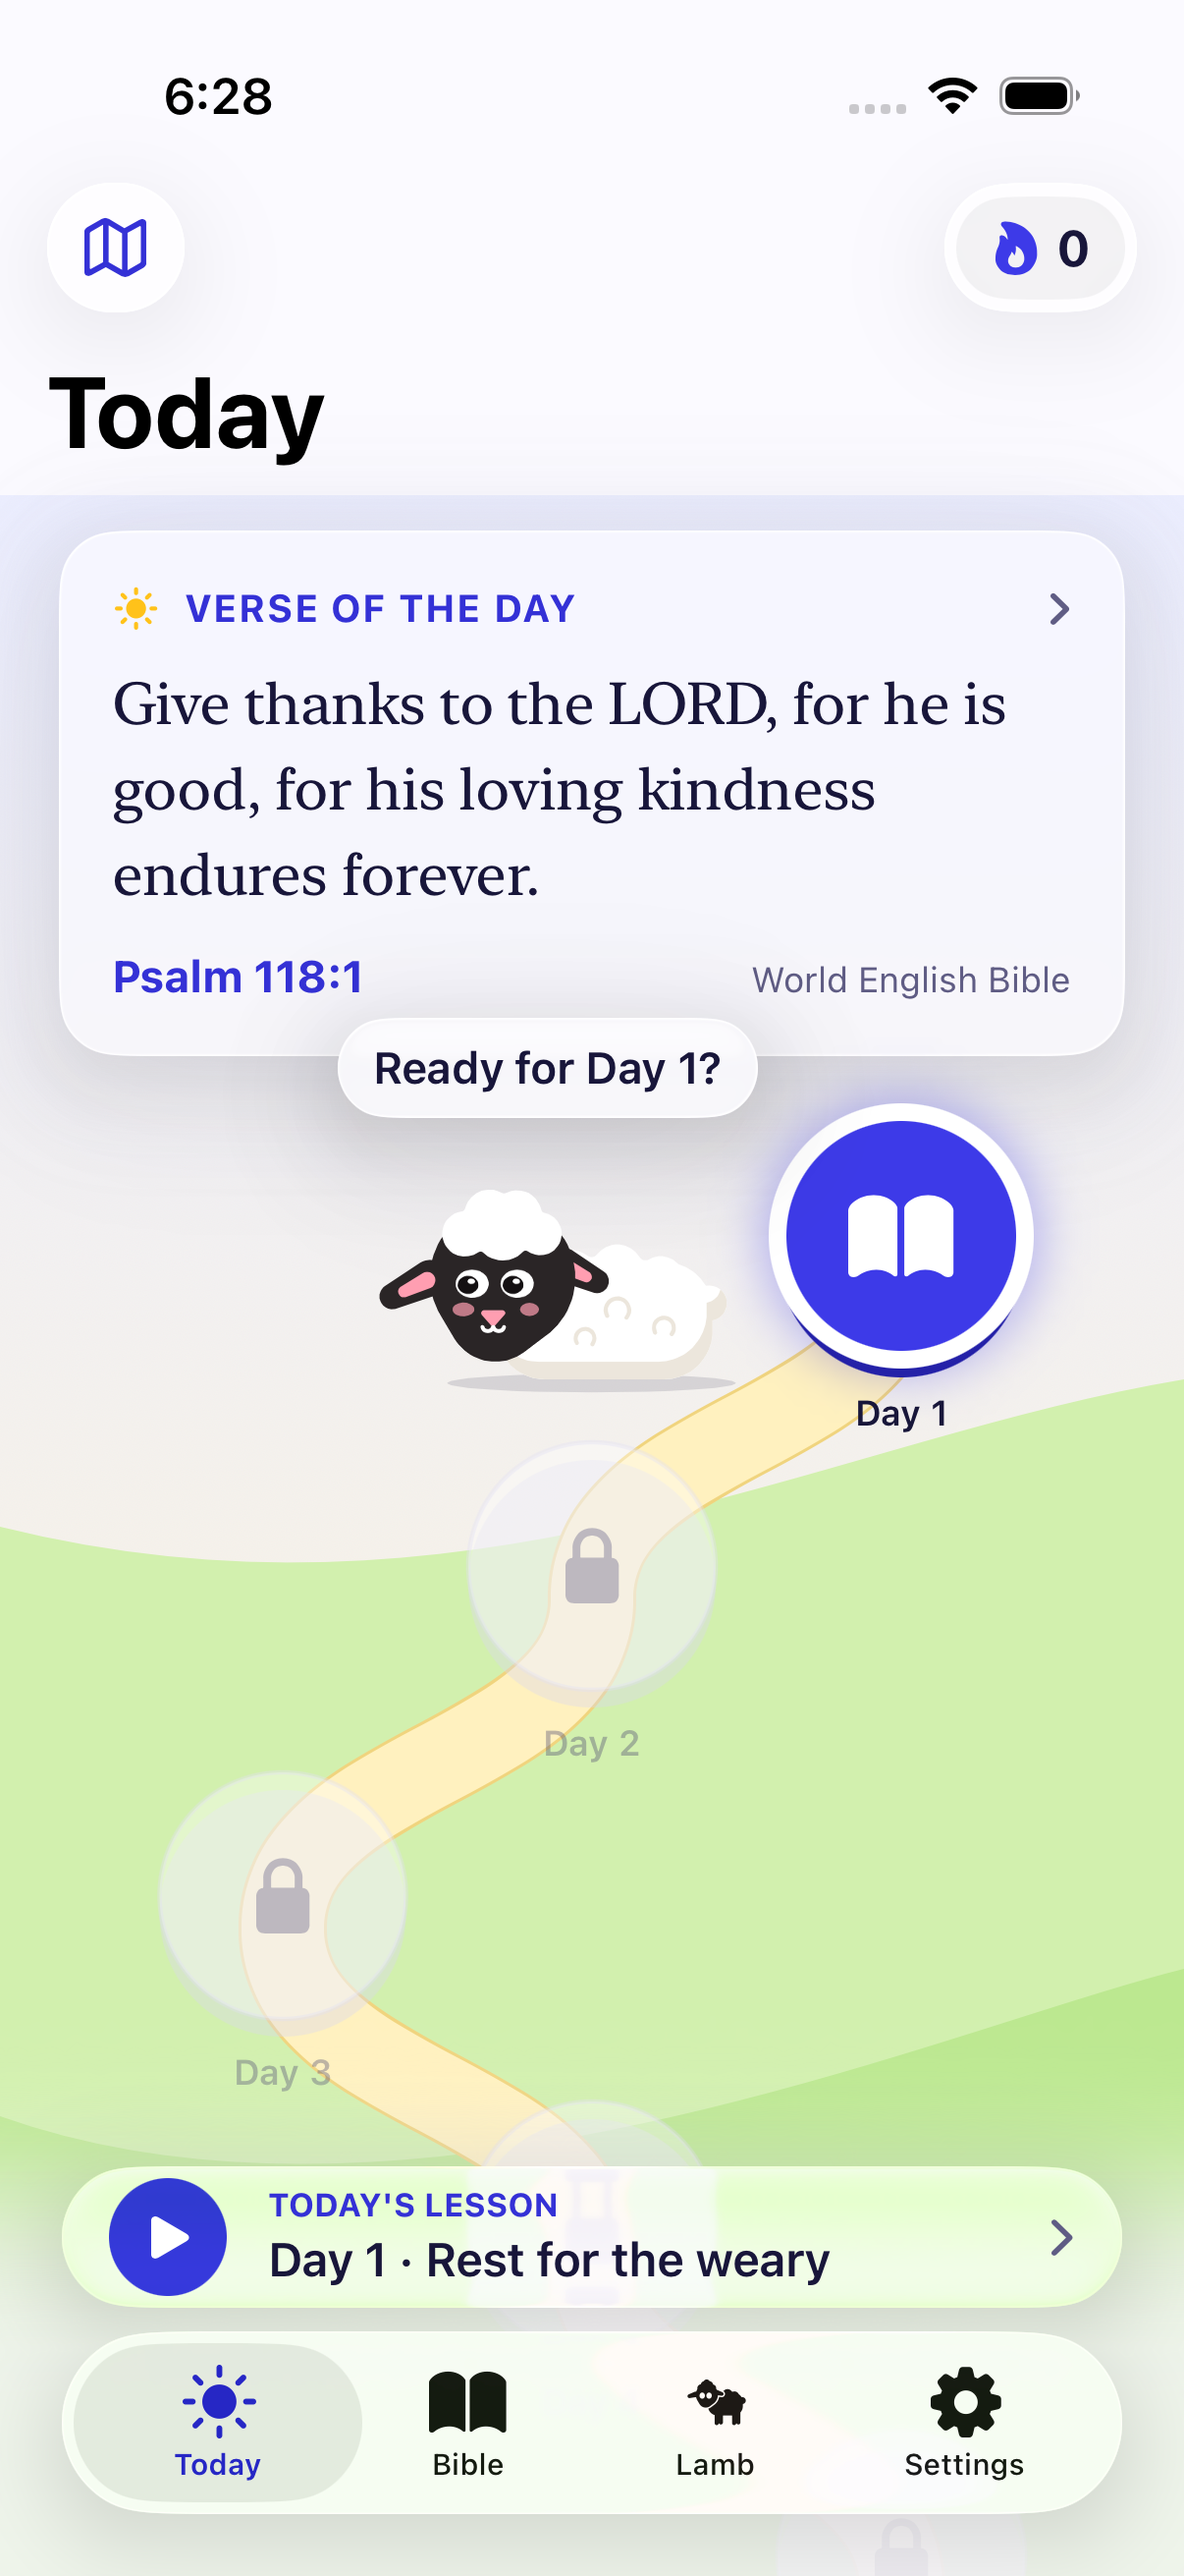
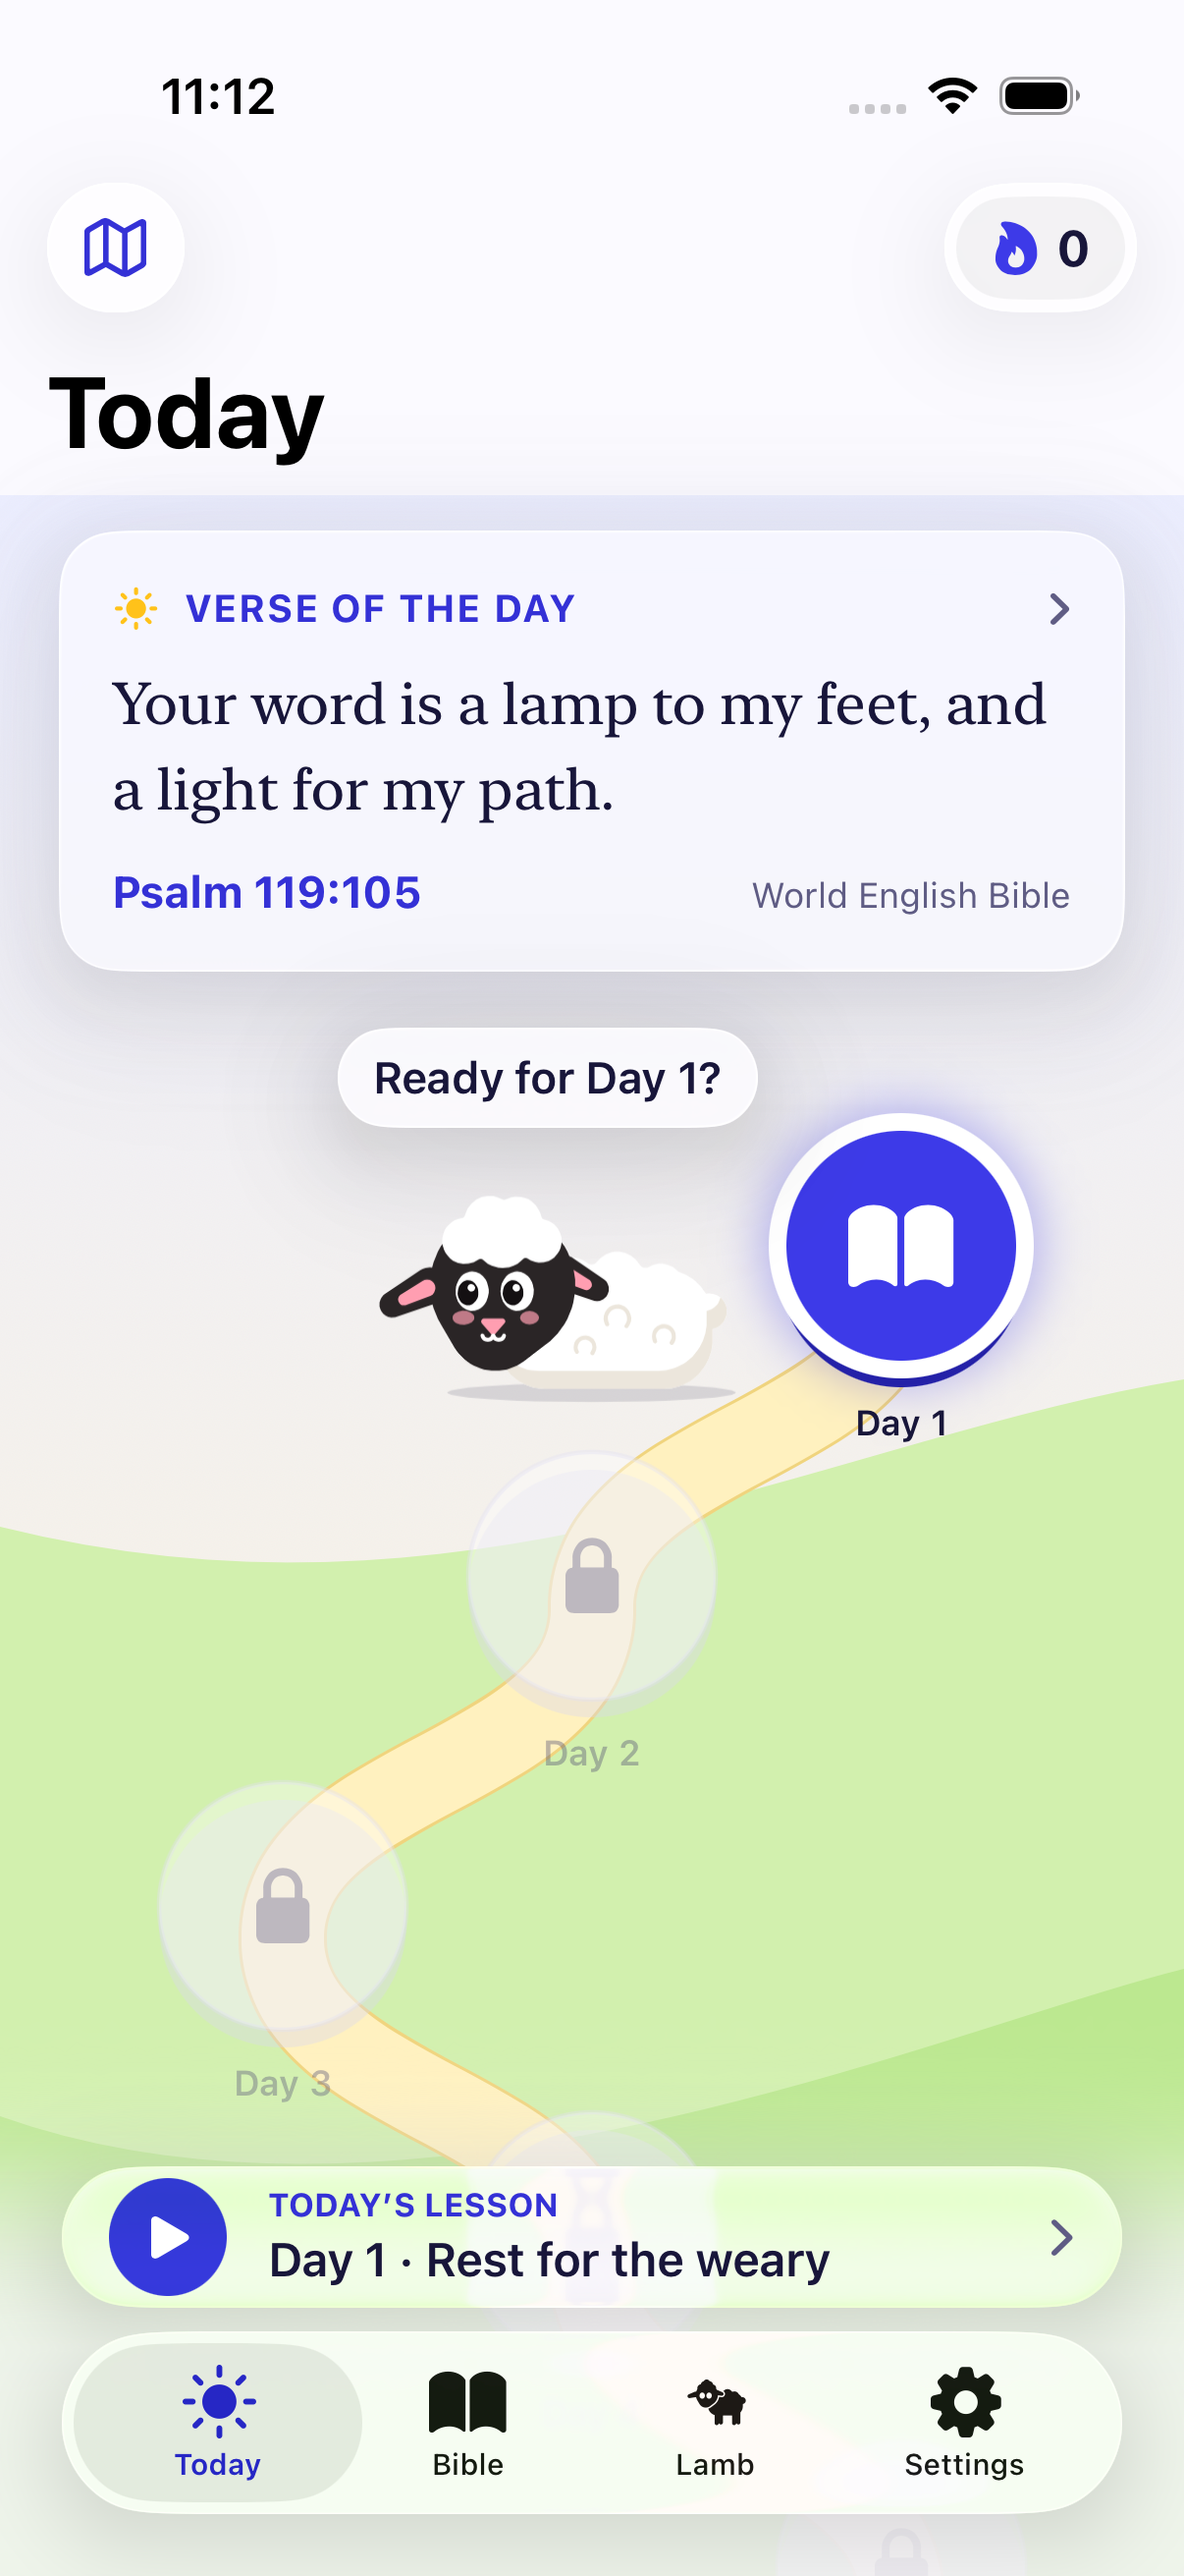
docs: re-capture verse of the day and Home screens, add real Home Screen widget captures
VerseOfTheDay_Reader now shows Psalm 119:105 scrolled to and highlighted; the Home shots
show the verse card; Widgets_HomeScreen_Before/After are SpringBoard captures from
testWidgetsOnHomeScreenUpdateAfterLesson. Widget_Verse_Fit_OffscreenRender is an
ImageRenderer render of the longest curated verse, not a device capture. AGENTS.md: the
widget profile, App Group entitlements via project.yml, and the widget test's fresh-device need.

diff --git a/AGENTS.md b/AGENTS.md
@@ -6,11 +6,11 @@ This file is the project's committed home for project-intrinsic agent knowledge:
 - Design lives in `design/`: `shepherd.lib.pen` (tokens + components), `screens/shepherd.pen` (imports it as alias `I`), PNG exports, and the spec in `design/README.md`. The README's token, component, frame and sample-content sections are generated: run `python3 design/tools/readme_tables.py` after changing a `.pen`.
 - Edit `.pen` files only through Pencil (app, MCP, or headless `pen interactive` with a safe-save that checks `list_libraries()` is ok). Never hand-edit the JSON; a broken library link or a renamed variable silently flattens token bindings.
 - Every top-level screen frame must set `theme: {"I:mode": "light"|"dark"}`, or library bindings render black.
-- Release (TestFlight): `tools/archive.sh <build-number>` archives, exports and runs `tools/verify_ipa.sh` (manual signing, "Shepherd AppStore Profile", team 6KH82C884Q); bump the build number each upload. Call asc only as `asc --profile LittleRed ...` (app 6819303372); never `asc auth switch`, never another team's profile.
+- Release (TestFlight): `tools/archive.sh <build-number>` archives, exports and runs `tools/verify_ipa.sh` (manual signing, team 6KH82C884Q; each target names its own profile in `project.yml` Release: "Shepherd AppStore Profile" for the app, "Shepherd Widgets AppStore Profile" for `com.dangvietquan.shepherd.widgets`); bump the build number each upload. App and widget share App Group `group.com.dangvietquan.shepherd`: set entitlements only through `project.yml` `entitlements.properties` (xcodegen rewrites the `.entitlements` files on every generate). Call asc only as `asc --profile LittleRed ...` (app 6819303372); never `asc auth switch`, never another team's profile.
 - Scripture, lesson and quiz text in designs must come verbatim from `Shepherd/Resources/Content/*.json` (WEB). Green/red are reserved for quiz correctness.
 - Bible text (`web.json`, WEB `engwebp`) is generated by `tools/bible/build_web.py` from a SHA-256-pinned eBible zip; never hand-edit it (the "World English Bible" name is only allowed for unchanged text, punctuation included). Lesson content (`paths.json`) must pass `python3 -I tools/content/validate_content.py` (`--release` also rejects `draft` paths) and `python3 -I -m unittest discover -s tools/content`; every quiz question needs an `answerRef` proof verse among the lesson's `verseRefs`. Lesson ids are global progress keys: never rename one. The app shows lesson text through `LessonText` (curly quotes at display time, the `**Reflection:**` paragraph as a heading), so keep straight quotes in the JSON. Write lessons to `docs/content/STYLE.md`; `python3 -I tools/content/content_summary.py --lessons` gives the review table.
 - `ShepherdTests/StoreKitTests` hangs in a fresh simulator clone (`[SKTestSession] Error saving configuration file: SKInternalErrorDomain Code=3`, then the test never returns); run the other suites with `-only-testing:` per class (`ContentTests`, `ShepherdTests`, `ReminderTests`, `ReviewPromptTests`, `StreakFreezeTests`) when it does. On iOS 26 StoreKit reports the `P1W` trial as 7 days, so check the period's length, not its unit.
-- UI tests: the shared scheme sets `SHOT_DIR` to `docs/screenshots`, so a run overwrites committed screenshots unless you pass `TEST_RUNNER_SHOT_DIR=<scratch dir>` to xcodebuild. DEBUG launch args `-uitestCompleted <path[:n]|lessonId,...>` and `-uitestPremium` seed progress and Premium (see `RootView.applyUITestState`). `testRealAppFullFlow*` needs a fresh install (`simctl uninstall` first): it skips the onboarding reminder step with "Not now" and taps the springboard "Allow" when it turns the daily reminder on in Settings.
+- UI tests: the shared scheme sets `SHOT_DIR` to `docs/screenshots`, so a run overwrites committed screenshots unless you pass `TEST_RUNNER_SHOT_DIR=<scratch dir>` to xcodebuild. DEBUG launch args `-uitestCompleted <path[:n]|lessonId,...>` and `-uitestPremium` seed progress and Premium (see `RootView.applyUITestState`). `testRealAppFullFlow*` and `testWidgetsOnHomeScreenUpdateAfterLesson` need a fresh install (`simctl uninstall` first; the widget test also needs a Home Screen without Pasture widgets, so `simctl erase` a clone): it skips the onboarding reminder step with "Not now" and taps the springboard "Allow" when it turns the daily reminder on in Settings.
 - Brand (Flock) source of truth is `tools/brand/`: colours in `tokens.py` (`python3 tools/brand/tokens.py check flock` is the AA gate), the lamb in `lambgen.py` (generated, never hand-drawn). `apply_design.py` writes both into the `.pen` files and `apply_app.py` writes colour sets, `lamb_variants.json`, AppIcon, TabLamb and wordmark. The wordmark text is set in `brandart.py` `WORDMARKS`; regenerate `wordmark.json` from Baloo 2 (`google/fonts` `ofl/baloo2/Baloo2[wght].ttf`). Change a colour or the lamb there, then re-apply to both sides. The scripts need shapely and resvg_py.
 
 ## Maintaining this file
